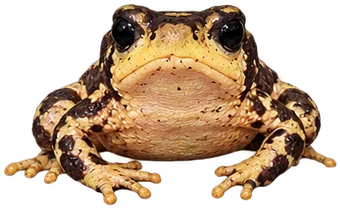
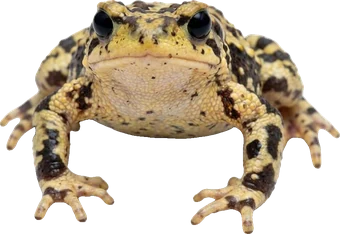
Actualiza las coordenadas de la vista frontal para los morfos verde y amarillo

diff --git a/src/components/Species.jsx b/src/components/Species.jsx
@@ -3,8 +3,8 @@ import { useApp } from "../AppContext.jsx";
 /* Lámina: las dos coloraciones conocidas. Arriba, de perfil y al mismo tamaño (public/img/morfo-verde.webp y
    morfo-amarillo.webp, 736 × 486); debajo, tres vistas pequeñas (morfo-<id>-<vista>.webp) */
 const MORFOS = [
-  { id: "verde", es: "Verde y negro", en: "Green and black", arriba: [269, 323], abajo: [285, 323], frente: [340, 219] },
-  { id: "amarillo", es: "Amarillo y marrón", en: "Yellow and brown", arriba: [245, 323], abajo: [280, 323], frente: [340, 209] },
+  { id: "verde", es: "Verde y negro", en: "Green and black", arriba: [269, 323], abajo: [285, 323], frente: [340, 234] },
+  { id: "amarillo", es: "Amarillo y marrón", en: "Yellow and brown", arriba: [245, 323], abajo: [280, 323], frente: [340, 234] },
 ];
 const VISTAS = [
   { id: "arriba", es: "Lomo", en: "Back" },
